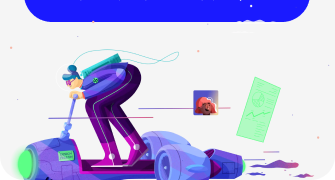
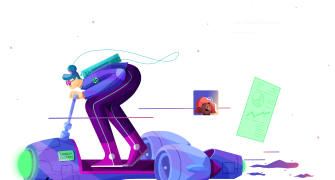
Make image in our vission and mission responsive

Changed region(s): [[0.0597, 0.0, 0.9254, 0.1389]]

diff --git a/src/components/molecules/OurMissionAndVision/index.tsx b/src/components/molecules/OurMissionAndVision/index.tsx
@@ -1,14 +1,13 @@
 import React from 'react';
-import Image from 'next/image';
 import Button from '../Button';
-import { userOnBike } from '@/components/exports/images';
+import './index.css';
 export const OurVisionAndMission = () => {
     return (
         <div className="py-[60px] lg:py-[120px]">
             <div className="m-auto max-w-[1200px] px-5">
                 <div className="grid grid-cols-2 gap-5 lg:grid-cols-2 lg:gap-6">
                     <div className="col-span-2 rounded-3xl bg-[#f5f5f5]">
-                        <div className="grid grid-cols-2 lg:ml-[40.5px] lg:grid-cols-3">
+                        <div className="grid min-h-[354px] grid-cols-2 overflow-hidden lg:ml-[40.5px] lg:grid-cols-3">
                             <div className="col-span-2 flex w-full flex-col gap-y-8 pt-6 lg:col-span-1 lg:my-10">
                                 <div className="font-pp-mori text-[34px] font-semibold leading-[42px] text-[#1a1a1a] md:hidden">
                                     Our Vision and <br /> Mission
@@ -18,7 +17,7 @@ export const OurVisionAndMission = () => {
                                     and Mission
                                 </div>
 
-                                <div className="mt-auto w-full md:w-fit">
+                                <div className="w-full md:w-fit lg:mt-auto">
                                     <Button
                                         height="56px"
                                         title="SEE JOB OPENINGS"
@@ -28,17 +27,7 @@ export const OurVisionAndMission = () => {
                                 </div>
                             </div>
 
-                            <figure className="relative col-span-2 aspect-[3/2] w-full place-self-stretch overflow-hidden pl-6 pr-[25px]">
-                                <div className="absolute inset-0 h-full w-full">
-                                    <Image
-                                        src={userOnBike}
-                                        className="absolute inset-0 block h-full w-full object-cover lg:inset-0"
-                                        alt="User on bike"
-                                        sizes="100vw"
-                                        fill
-                                    />
-                                </div>
-                            </figure>
+                            <div className="bike-bg col-span-2"></div>
                         </div>
                     </div>
                     <div className="col-span-2 md:col-span-1">

diff --git a/src/components/molecules/OurMissionAndVision/index.css b/src/components/molecules/OurMissionAndVision/index.css
@@ -1,0 +1,22 @@
+.bike-bg {
+    background-image: url('/assets/images/bike.png');
+    background-repeat: no-repeat;
+    background-size: contain;
+    height: 343px;
+    background-position: bottom center;
+}
+
+@media screen and (min-width: 768px) {
+    .bike-bg {
+        background-image: url('/assets/images/user_on_bike.png');
+        background-size: cover;
+    }
+}
+@media screen and (min-width: 1024px) {
+    .bike-bg {
+        background-image: url('/assets/images/user_on_bike.png');
+        background-repeat: no-repeat;
+        background-size: contain;
+        background-position: right;
+    }
+}
